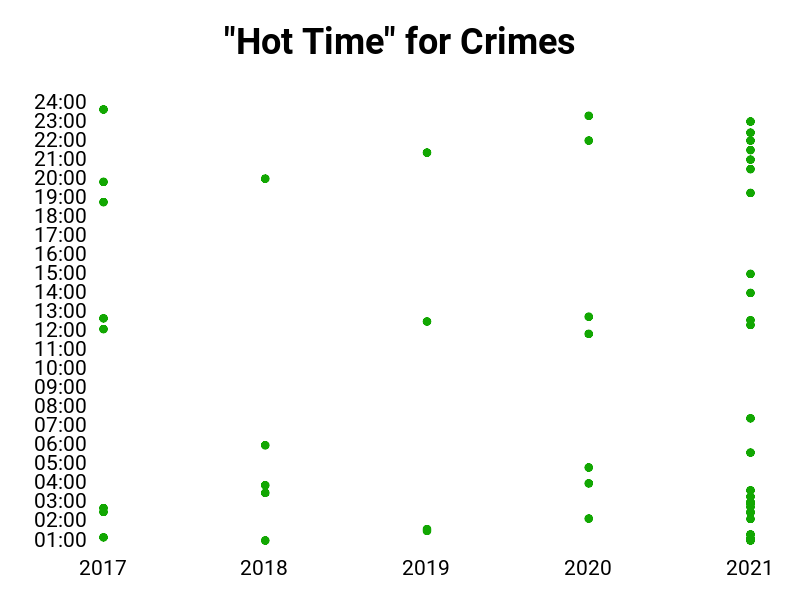
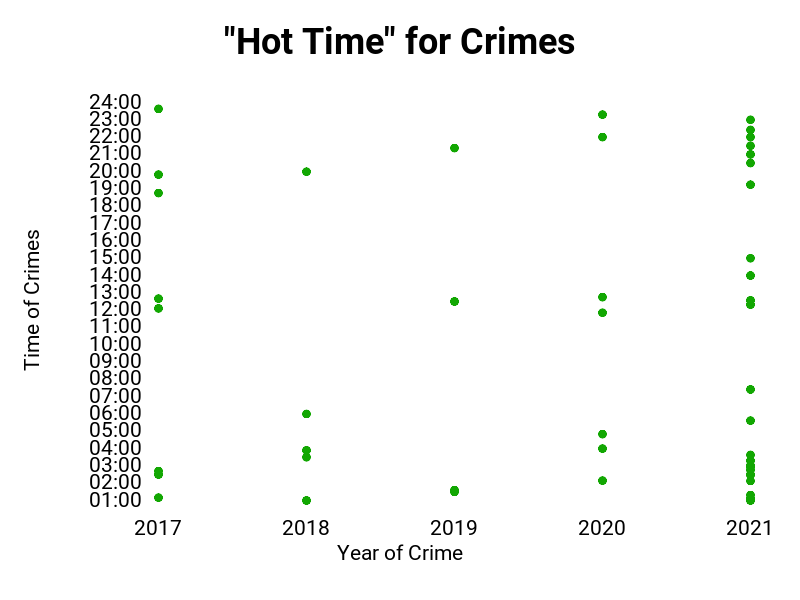
bug fix: num_crime graph now able to display year on x-axis

diff --git a/graph.rb b/graph.rb
@@ -15,6 +15,7 @@ class Graph
     set_graph_properties
     set_axis_style scrape
     @scatter_graph.data('crime time', @x, @y)
+    @scatter_graph.write('crime_time.png')
   end
 
   def create_bargraph(scrape)
@@ -22,10 +23,10 @@ class Graph
     set_bar_graph_properties
     set_axis_style_bar_graph scrape
     get_bar_points scrape
-    @bar_graph.write "num_crimes.png"
+    @bar_graph.write 'num_crimes.png'
   end
 
-    # the look of the graph
+  # the look of the graph
   def set_bar_graph_properties
     @bar_graph.title = 'Number of Crimes Per Year at OSU'
     @bar_graph.hide_legend = true
@@ -42,26 +43,32 @@ class Graph
   end
 
   def get_bar_points(scrape)
-    scrape.crime_per_year.each_key do |year|
-      @bar_graph.data(year, scrape.crime_per_year[year], nil)
-    end
+    # scrape.crime_per_year.each_key do |year|
+    #   @bar_graph.data('year', year, scrape.crime_per_year)
+    # end
+    @bar_graph.data(scrape.years, scrape.crime_per_year.values)
   end
 
   # the look for the axis
   def set_axis_style_bar_graph(scrape)
-
     @bar_graph.maximum_value = 40
     @bar_graph.minimum_value = 0
     @bar_graph.y_axis_increment = 2
-    @bar_graph.x_axis_label = "Year of Crime"
-    @bar_graph.y_axis_label = "Number of Crimes"
+    @bar_graph.x_axis_label = 'Year of Crime'
+    @bar_graph.y_axis_label = 'Number of Crimes'
 
-    
+    # year as x-axis labels
+    tmp_label = {}
+    scrape.years.length.times do |i|
+      tmp_label[i] = scrape.years[i]
+    end
     @bar_graph.x_axis_increment = 1
+    @bar_graph.labels = tmp_label
 
-    @bar_graph.x_axis_label_format = lambda do |value|
-      puts "Hello #{scrape.years[value - 1]}"
-      format('%d', scrape.years[value - 1])
+    # bar values
+    @bar_graph.show_labels_for_bar_values = true
+    @bar_graph.label_formatting = lambda do |value|
+      value.to_i.to_s
     end
   end
 
@@ -117,6 +124,9 @@ class Graph
 
   # the look for the axis
   def set_axis_style(scrape)
+    @scatter_graph.x_axis_label = 'Year of Crime'
+    @scatter_graph.y_axis_label = 'Time of Crimes'
+
     # 24:00 format for y-axis
     @scatter_graph.y_axis_increment = 1
     @scatter_graph.y_axis_label_format = lambda do |value|
@@ -128,7 +138,6 @@ class Graph
     end
     # year as x-axis labels
     @scatter_graph.x_axis_increment = 1
-
     @scatter_graph.x_axis_label_format = lambda do |value|
       format('%d', scrape.years[value - 1])
     end

diff --git a/main.rb b/main.rb
@@ -13,7 +13,6 @@ require 'gruff'
 
 link = 'https://dps.osu.edu/news?tag%5B15%5D=15'
 
-
 scrape = Scraper.new
 puts 'Retrieving Data...'
 # mechanize first page to start retriving data from website
@@ -28,15 +27,13 @@ puts 'All Data Retrieved.'
 puts 'Creating Graph...'
 crime_time_graph = Graph.new
 crime_time_graph.create_scatterplot crime_time_graph, scrape
-crime_time_graph.scatter_graph.write('crime_time.png')
 
 num_crimes_graph = Graph.new
 num_crimes_graph.create_bargraph scrape
 puts 'Graph has been created.'
 
-
-f = File.new("./table.html", "w")
+f = File.new('./table.html', 'w')
 html = Htmltable.new
 
-#output html page after scraping data and creating graphs
+# output html page after scraping data and creating graphs
 html.create_page f, scrape.all_notices
